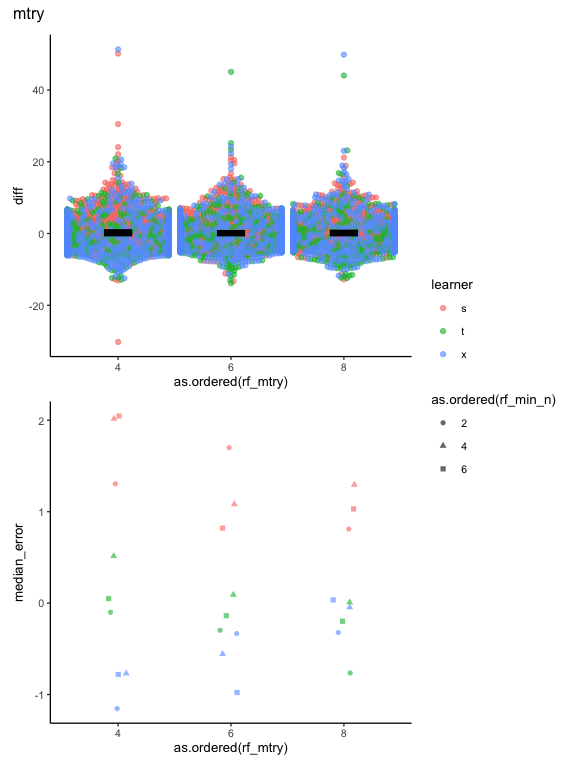
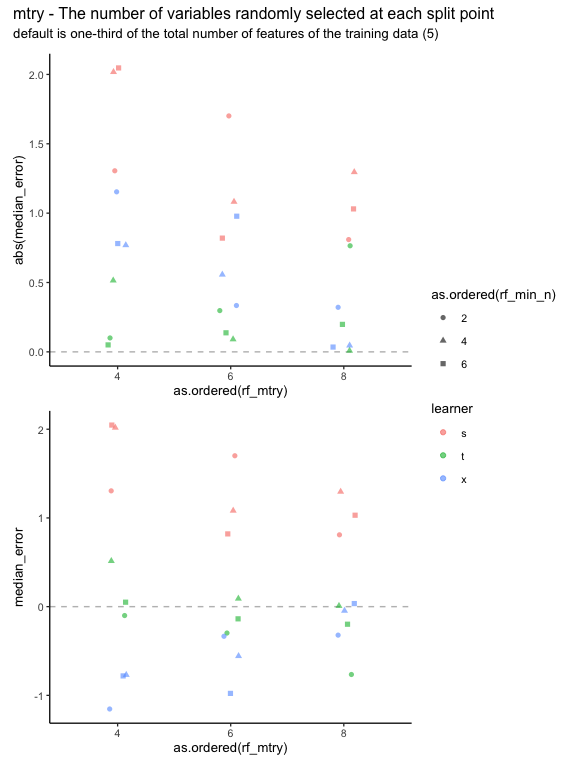
no vis for plot level errors

diff --git a/code/notebooks/2024-01-29_test-hyperparameters.md b/code/notebooks/2024-01-29_test-hyperparameters.md
@@ -1,7 +1,7 @@
 Testing hyperparameters
 ================
 eleanorjackson
-29 January, 2024
+30 January, 2024
 
 I’m currently using the same hyperparameters for all the RFs in the
 meta-learners. There isn’t a way to tune them programmatically using the
@@ -12,7 +12,6 @@ run with different hyperparameters and see what happens.
 library("tidyverse")
 library("here")
 library("patchwork")
-library("ggbeeswarm")
 ```
 
 ``` r
@@ -104,38 +103,41 @@ median_errors <- keys %>%
   summarise(median_error = median(diff),
             .groups = "drop")
 
-full_errors <- keys %>% 
-  mutate(df_out = model_out) %>% 
-  unite(col = "test_id", remove = FALSE,
-        learner, rf_mtry, rf_min_n) %>%
-  unnest(df_out)
-
-full_errors %>% 
-  ggplot(aes(x = as.ordered(rf_mtry), y = diff, colour = learner)) +
-  geom_beeswarm(corral = "gutter", alpha = 0.6) +
-  stat_summary(fun = "median", colour = "black", 
-               size = 2, geom = "bar", width = 0.2) +
+median_errors %>% 
+  ggplot(aes(x = as.ordered(rf_mtry), y = abs(median_error),
+             colour = learner, shape = as.ordered(rf_min_n))) +
+  geom_hline(yintercept = 0, linetype = 2, colour = "grey") +
+  geom_jitter(alpha = 0.6, width = 0.1, height = 0) +
+  plot_layout(guides = "collect", ncol = 1) +
 median_errors %>% 
   ggplot(aes(x = as.ordered(rf_mtry), y = median_error,
              colour = learner, shape = as.ordered(rf_min_n))) +
+  geom_hline(yintercept = 0, linetype = 2, colour = "grey") +
   geom_jitter(alpha = 0.6, width = 0.1, height = 0) +
   plot_layout(guides = "collect", ncol = 1) +
-  plot_annotation(title = "mtry")
+  plot_annotation(
+    title = "mtry - The number of variables randomly selected at each split point",
+    subtitle = "default is one-third of the total number of features of the training data (5)")
 ```
 
 ![](figures/2024-01-29_test-hyperparameters/unnamed-chunk-5-1.png)<!-- -->
 
 ``` r
-full_errors %>% 
-  ggplot(aes(x = as.ordered(rf_min_n), y = diff, colour = learner)) +
-  geom_beeswarm(corral = "gutter", alpha = 0.6) +
-  stat_summary(fun = "median", colour = "black", size = 2, geom = "bar", width = 0.2) +
+median_errors %>% 
+  ggplot(aes(x = as.ordered(rf_min_n), y = abs(median_error), 
+             colour = learner, shape = as.ordered(rf_mtry))) +
+  geom_hline(yintercept = 0, linetype = 2, colour = "grey") +
+  geom_jitter(alpha = 0.6, width = 0.1, height = 0) +
+  plot_layout(guides = "collect", ncol = 1) +
 median_errors %>% 
   ggplot(aes(x = as.ordered(rf_min_n), y = median_error, 
              colour = learner, shape = as.ordered(rf_mtry))) +
+  geom_hline(yintercept = 0, linetype = 2, colour = "grey") +
   geom_jitter(alpha = 0.6, width = 0.1, height = 0) +
   plot_layout(guides = "collect", ncol = 1) +
-  plot_annotation(title = "min nodes")
+  plot_annotation(
+    title = "nodesizeSpl - Minimum observations contained in terminal nodes",
+    subtitle = "default is 5")
 ```
 
 ![](figures/2024-01-29_test-hyperparameters/unnamed-chunk-6-1.png)<!-- -->
